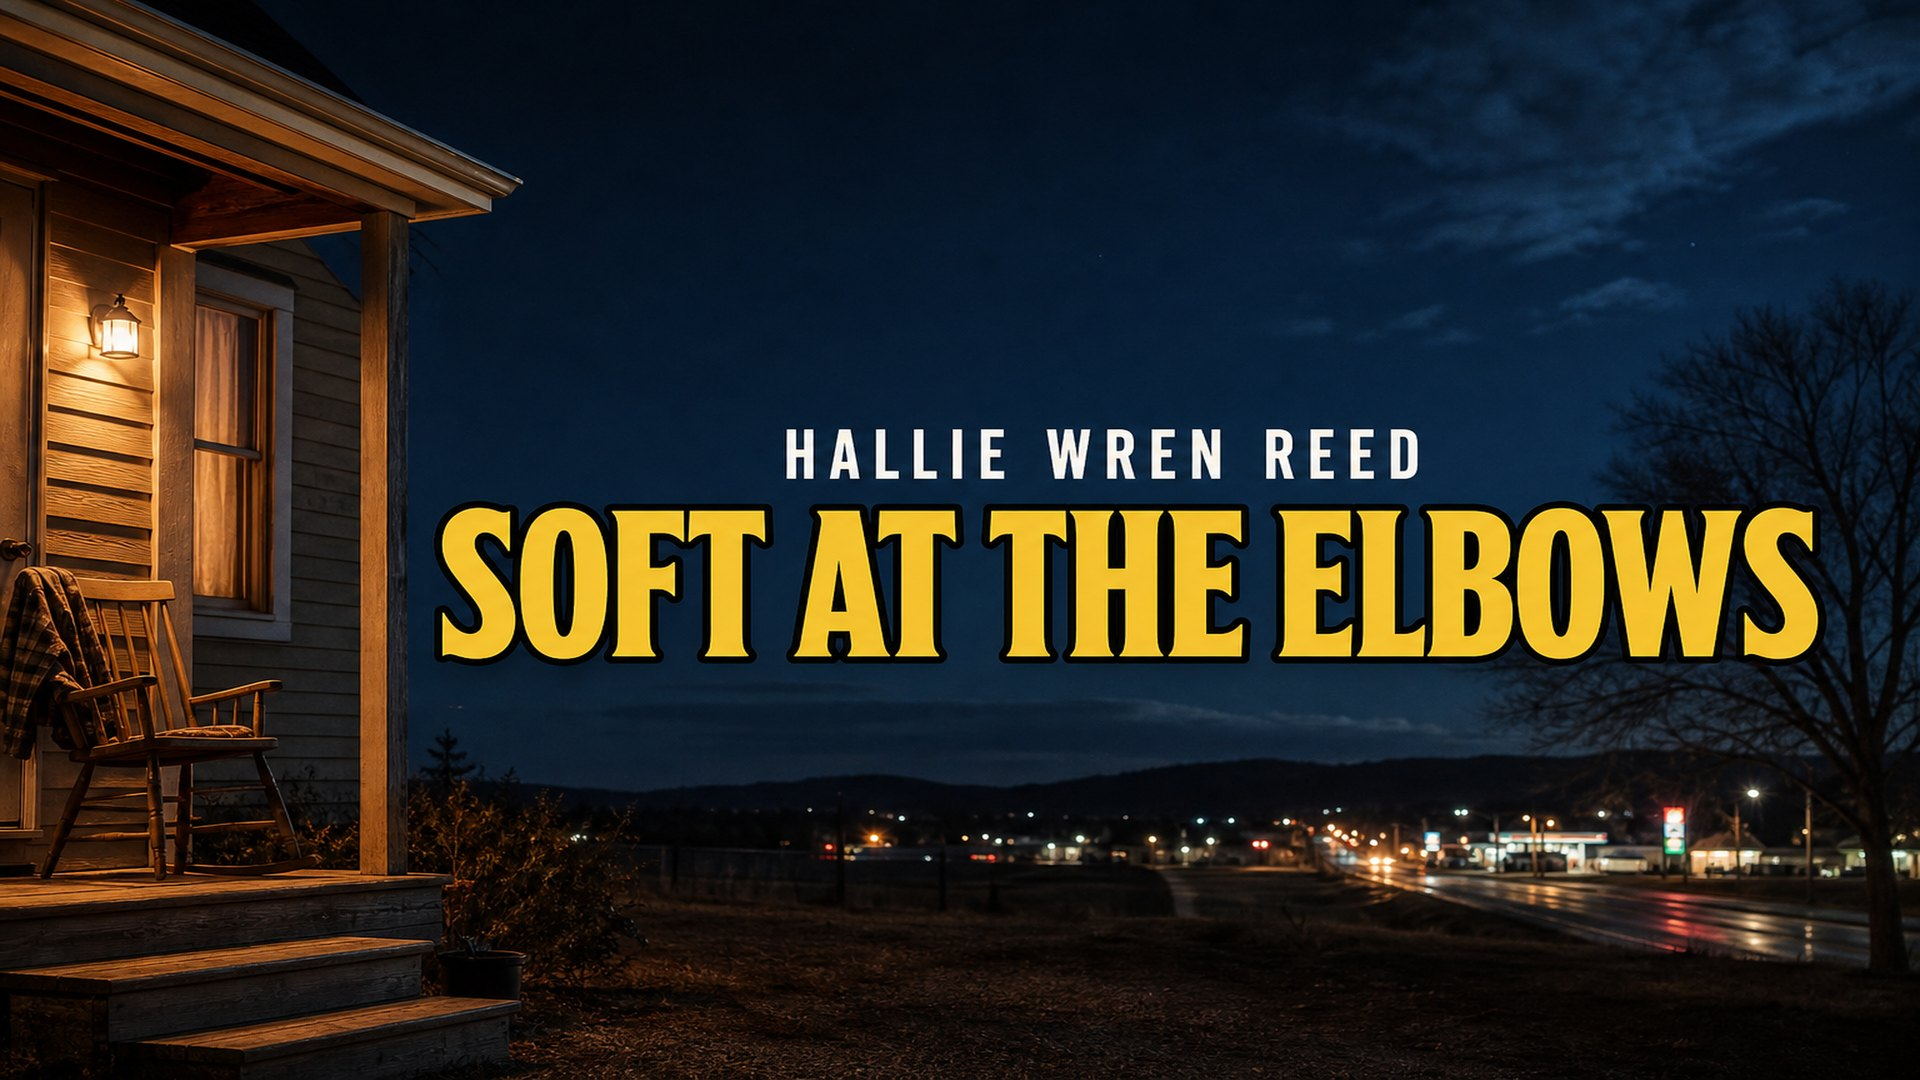
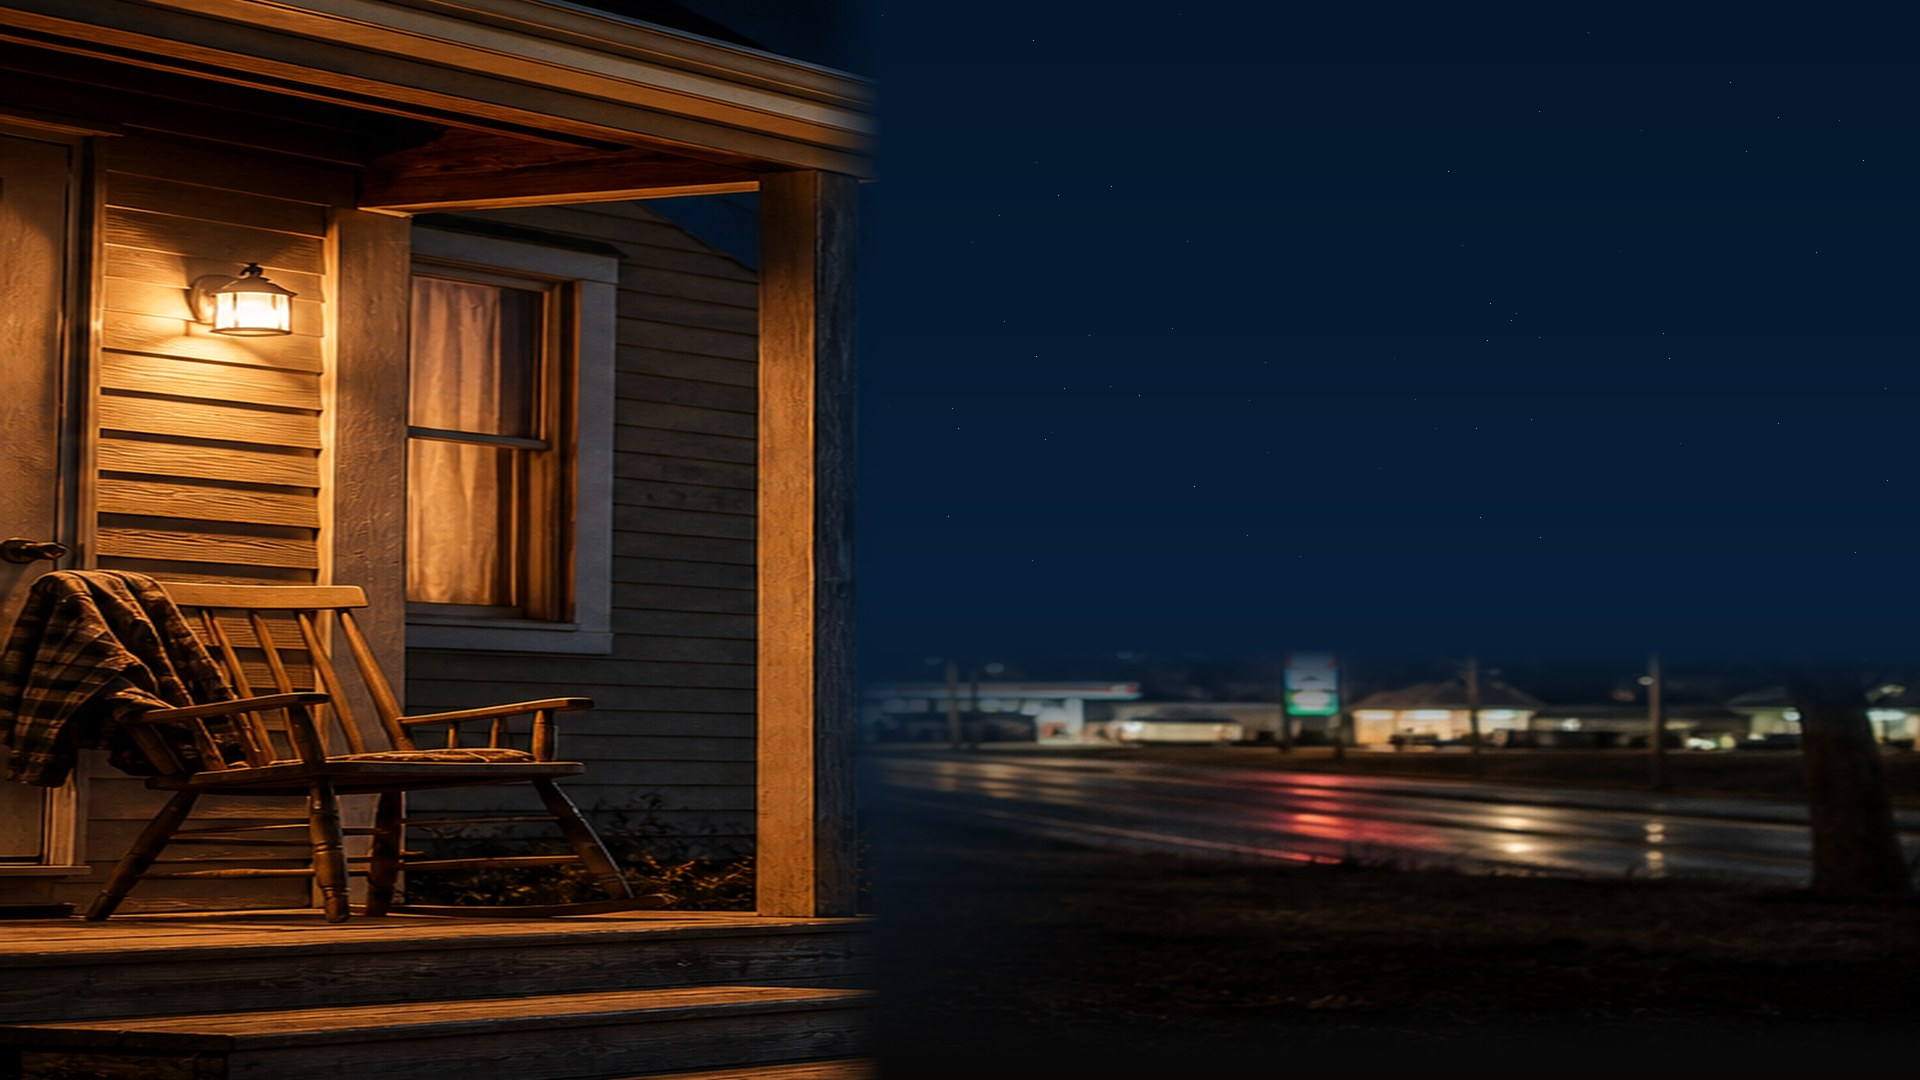
Fix desktop overlap: text-free night-porch background
The glass card on the right was covering Soft at the Elbows type
baked into the album banner. Background is now a clean porch/night
plate; artist and album titles are HTML/CSS only.

diff --git a/app/globals.css b/app/globals.css
@@ -86,17 +86,13 @@ a {
   position: fixed;
   inset: 0;
   z-index: 0;
+  overflow: hidden;
   pointer-events: none;
 }
 
-.backdrop-image {
-  position: absolute;
-  inset: 0;
-  background-color: var(--sky);
-  background-image: url("/images/banner.jpg");
-  background-repeat: no-repeat;
-  background-size: cover;
-  background-position: 72% 42%;
+.backdrop-photo {
+  object-fit: cover;
+  object-position: 8% 40%;
 }
 
 .backdrop-wash {
@@ -388,23 +384,24 @@ a {
     padding: 2.5rem 6vw 2.5rem 2rem;
   }
 
-  .backdrop-image {
-    background-position: 32% 46%;
+  .backdrop-photo {
+    /* Composed plate: porch left, open night right — no baked-in type. */
+    object-position: 50% 42%;
   }
 
   .backdrop-wash {
     background:
       linear-gradient(
         90deg,
-        rgba(7, 16, 24, 0.08) 0%,
-        rgba(7, 16, 24, 0.18) 42%,
-        rgba(7, 16, 24, 0.62) 100%
+        rgba(7, 16, 24, 0.1) 0%,
+        rgba(7, 16, 24, 0.06) 40%,
+        rgba(7, 16, 24, 0.42) 100%
       ),
       linear-gradient(
         180deg,
-        rgba(7, 16, 24, 0.18) 0%,
-        rgba(7, 16, 24, 0.28) 55%,
-        rgba(7, 16, 24, 0.7) 100%
+        rgba(7, 16, 24, 0.16) 0%,
+        rgba(7, 16, 24, 0.22) 58%,
+        rgba(7, 16, 24, 0.58) 100%
       );
   }
 
@@ -433,10 +430,13 @@ a {
 }
 
 @media (max-width: 719px) {
+  .masthead {
+    width: min(100%, 26.5rem);
+    margin: 0.15rem 0 0.85rem;
+  }
+
   .masthead-title {
-    /* On phones the card is the title; keep the banner type quiet. */
-    font-size: 0;
-    overflow: hidden;
+    display: none;
   }
 
   .masthead-kicker {

diff --git a/app/not-found.tsx b/app/not-found.tsx
@@ -1,10 +1,18 @@
+import Image from "next/image";
 import Link from "next/link";
 
 export default function NotFound() {
   return (
     <div className="stage">
       <div className="backdrop" aria-hidden="true">
-        <div className="backdrop-image" />
+        <Image
+          className="backdrop-photo"
+          src="/images/banner.jpg"
+          alt=""
+          fill
+          priority
+          sizes="100vw"
+        />
         <div className="backdrop-wash" />
         <div className="backdrop-grain" />
       </div>

diff --git a/app/page.tsx b/app/page.tsx
@@ -27,7 +27,14 @@ export default function HomePage() {
       </a>
       <div className="stage">
         <div className="backdrop" aria-hidden="true">
-          <div className="backdrop-image" />
+          <Image
+            className="backdrop-photo"
+            src="/images/banner.jpg"
+            alt=""
+            fill
+            priority
+            sizes="100vw"
+          />
           <div className="backdrop-wash" />
           <div className="backdrop-grain" />
         </div>
